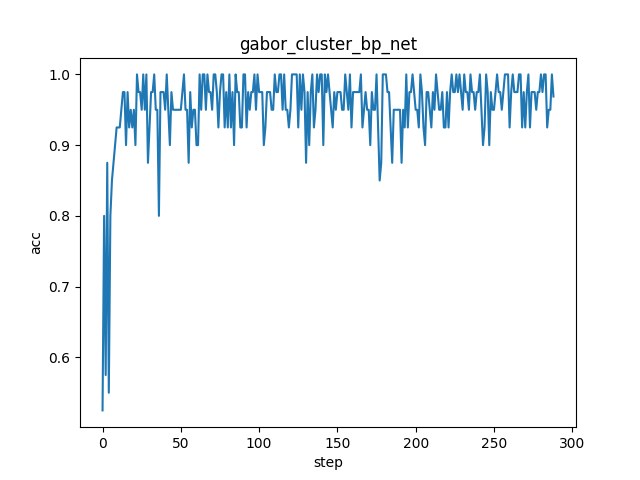
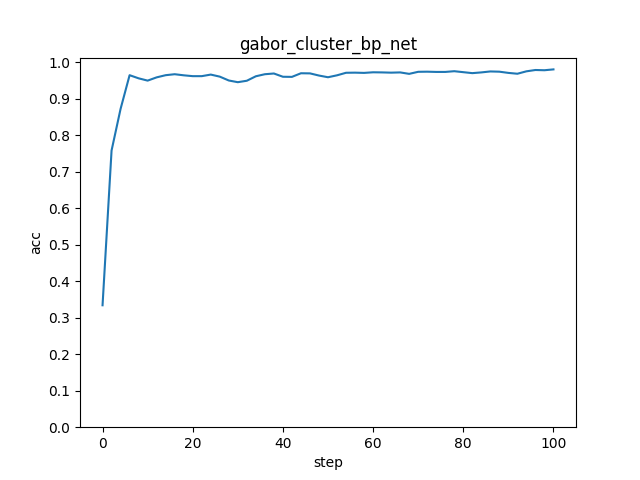
add

diff --git a/experiment/trainer/cnn_cluster_bp_trainer.py b/experiment/trainer/cnn_cluster_bp_trainer.py
@@ -2,7 +2,7 @@ from experiment.compare.gabor_cluster_bp.model import Net
 from util.data_util import loader, convert_label
 from torch.nn import CrossEntropyLoss
 import torch
-from sklearn.metrics import accuracy_score
+from util.test_util import run_testing
 from tqdm import tqdm
 from experiment.trainer.base_trainer import BaseTrainer
 
@@ -15,13 +15,17 @@ class CnnClusterBpTrainer(BaseTrainer):
                  cluster_layer_weight_density,
                  n_neuron_cluster,
                  n_features_cluster_layer,
-                 use_gpu):
+                 use_gpu,
+                 early_stopping_step=None,
+                 valid_interval_step=None):
         super().__init__()
         self.batch_size = batch_size
         self.digits = digits
         self.epoch = epoch
         self.use_gpu = use_gpu
         self.n_category = len(digits)
+        self.early_stopping_step = early_stopping_step
+        self.valid_interval_step = valid_interval_step
         self.net = Net(n_features_cluster_layer=n_features_cluster_layer,
                        n_neuron_cluster=n_neuron_cluster,
                        cluster_layer_weight_density=cluster_layer_weight_density,
@@ -43,6 +47,8 @@ class CnnClusterBpTrainer(BaseTrainer):
     def run_training(self):
         self.loss_all = []
         self.acc_all = []
+        self.step_all = []
+        total_step = 0
         print(self.net)
         for e in tqdm(range(self.epoch)):
             for step, (b_img, b_label) in enumerate(self.train_loader):
@@ -52,13 +58,24 @@ class CnnClusterBpTrainer(BaseTrainer):
                     b_label = b_label.cuda()
                 b_label = convert_label(b_label, self.digits)
                 b_output = self.net(b_img)
-                b_predict = torch.argmax(b_output, dim=1)
                 loss = self.loss_func(b_output, b_label)
                 self.optimizer.zero_grad()
                 loss.backward()
                 self.optimizer.step()
-                acc = accuracy_score(b_label.data.cpu().numpy(), b_predict.data.cpu().numpy())
-                self.loss_all.append(float(loss.data.cpu().numpy()))
-                self.acc_all.append(acc)
+                if total_step % self.valid_interval_step == 0:
+                    loss, acc = run_testing(self.net,
+                                            self.loss_func,
+                                            self.test_loader,
+                                            self.use_gpu,
+                                            self.digits,
+                                            is_rl=False,
+                                            break_step=100)
+                    print('Epoch: ', e, '| train loss: %.4f' % loss, '| test accuracy: %.4f' % acc)
+                    self.loss_all.append(loss)
+                    self.acc_all.append(acc)
+                    self.step_all.append(total_step)
+                if total_step == self.early_stopping_step:
+                    break
+                total_step += 1
         self.plot()
         return self.loss_all, self.acc_all

diff --git a/experiment/trainer/cnn_bp_trainer.py b/experiment/trainer/cnn_bp_trainer.py
@@ -3,7 +3,7 @@ import torch
 from util.data_util import loader, convert_label
 from torch.nn import CrossEntropyLoss
 from tqdm import tqdm
-from sklearn.metrics import accuracy_score
+from util.test_util import run_testing
 from experiment.trainer.base_trainer import BaseTrainer
 
 
@@ -12,7 +12,9 @@ class CnnBpTrainer(BaseTrainer):
                  batch_size,
                  digits,
                  epoch,
-                 use_gpu):
+                 use_gpu,
+                 early_stopping_step=None,
+                 valid_interval_step=None):
         super().__init__()
         self.batch_size = batch_size
         self.digits = digits
@@ -20,6 +22,8 @@ class CnnBpTrainer(BaseTrainer):
         self.use_gpu = use_gpu
         self.n_category = len(digits)
         self.net = Net(n_category=self.n_category)
+        self.early_stopping_step = early_stopping_step
+        self.valid_interval_step = valid_interval_step
         if torch.cuda.is_available() and use_gpu:
             self.net = self.net.cuda()
         self.train_loader, self.test_loader = loader(batch_size=batch_size,
@@ -35,6 +39,8 @@ class CnnBpTrainer(BaseTrainer):
     def run_training(self):
         self.loss_all = []
         self.acc_all = []
+        self.step_all = []
+        total_step = 0
         print(self.net)
         for e in tqdm(range(self.epoch)):
             for step, (b_img, b_label) in enumerate(self.train_loader):
@@ -44,13 +50,24 @@ class CnnBpTrainer(BaseTrainer):
                     b_label = b_label.cuda()
                 b_label = convert_label(b_label, self.digits)
                 b_output = self.net(b_img)
-                b_predict = torch.argmax(b_output, dim=1)
                 loss = self.loss_func(b_output, b_label)
                 self.optimizer.zero_grad()
                 loss.backward()
                 self.optimizer.step()
-                acc = accuracy_score(b_label.data.cpu().numpy(), b_predict.data.cpu().numpy())
-                self.loss_all.append(float(loss.data.cpu().numpy()))
-                self.acc_all.append(acc)
+                if total_step % self.valid_interval_step == 0:
+                    loss, acc = run_testing(self.net,
+                                            self.loss_func,
+                                            self.test_loader,
+                                            self.use_gpu,
+                                            self.digits,
+                                            is_rl=False,
+                                            break_step=100)
+                    print('Epoch: ', e, '| train loss: %.4f' % loss, '| test accuracy: %.4f' % acc)
+                    self.loss_all.append(loss)
+                    self.acc_all.append(acc)
+                    self.step_all.append(total_step)
+                if total_step == self.early_stopping_step:
+                    break
+                total_step += 1
         self.plot()
         return self.loss_all, self.acc_all

diff --git a/experiment/trainer/cnn_cluster_rl_trainer.py b/experiment/trainer/cnn_cluster_rl_trainer.py
@@ -3,7 +3,7 @@ import torch
 from util.data_util import loader, convert_label
 from torch.nn import CrossEntropyLoss
 from tqdm import tqdm
-from sklearn.metrics import accuracy_score
+from util.test_util import run_testing
 from experiment.trainer.base_trainer import BaseTrainer
 
 
@@ -17,7 +17,9 @@ class CnnClusterRlTrainer(BaseTrainer):
                  n_features_cluster_layer,
                  synaptic_th,
                  learning_rate,
-                 use_gpu):
+                 use_gpu,
+                 early_stopping_step,
+                 valid_interval_step):
         super().__init__()
         self.batch_size = batch_size
         self.digits = digits
@@ -25,6 +27,8 @@ class CnnClusterRlTrainer(BaseTrainer):
         self.use_gpu = use_gpu
         self.n_category = len(digits)
         self.learning_rate = learning_rate
+        self.early_stopping_step = early_stopping_step
+        self.valid_interval_step = valid_interval_step
         self.net = Net(n_features_cluster_layer=n_features_cluster_layer,
                        n_neuron_cluster=n_neuron_cluster,
                        cluster_layer_weight_density=cluster_layer_weight_density,
@@ -71,6 +75,8 @@ class CnnClusterRlTrainer(BaseTrainer):
     def run_training(self):
         self.loss_all = []
         self.acc_all = []
+        self.step_all = []
+        total_step = 0
         print(self.net)
         for e in tqdm(range(self.epoch)):
             for step, (b_img, b_label) in enumerate(self.train_loader):
@@ -86,8 +92,20 @@ class CnnClusterRlTrainer(BaseTrainer):
                 loss = self.loss_func(b_output, b_label)
                 # backward
                 self.update_weight(batch_size, b_predict, b_predict_prob, b_label, b_cluster_output)
-                acc = accuracy_score(b_label.data.cpu().numpy(), b_predict.data.cpu().numpy())
-                self.loss_all.append(float(loss.data.cpu().numpy()))
-                self.acc_all.append(acc)
+                if total_step % self.valid_interval_step == 0:
+                    loss, acc = run_testing(self.net,
+                                            self.loss_func,
+                                            self.test_loader,
+                                            self.use_gpu,
+                                            self.digits,
+                                            is_rl=True,
+                                            break_step=100)
+                    print('Epoch: ', e, '| train loss: %.4f' % loss, '| test accuracy: %.4f' % acc)
+                    self.loss_all.append(loss)
+                    self.acc_all.append(acc)
+                    self.step_all.append(total_step)
+                if total_step == self.early_stopping_step:
+                    break
+                total_step += 1
         self.plot()
         return self.loss_all, self.acc_all

diff --git a/experiment/plot/main.py b/experiment/plot/main.py
@@ -4,7 +4,7 @@ from experiment.trainer.cnn_cluster_rl_trainer import CnnClusterRlTrainer
 import numpy as np
 
 batch_size = 40
-digits = np.array([3, 5])
+digits = np.array([2, 3, 4])
 epoch = 1
 cluster_layer_weight_density = 0.01
 n_neuron_cluster = 10
@@ -12,17 +12,23 @@ n_features_cluster_layer = 50000
 learning_rate = 0.1  # 学习率
 synaptic_th = 0.8  # 中间层和输出层之间连接矩阵的突触阈值
 use_gpu = True
+early_stopping_step = 100
+valid_interval_step = 2
 cnn_bp_trainer = CnnBpTrainer(batch_size,
                               digits,
                               epoch,
-                              use_gpu)
+                              use_gpu,
+                              early_stopping_step,
+                              valid_interval_step)
 cnn_cluster_bp_trainer = CnnClusterBpTrainer(batch_size,
                                              digits,
                                              epoch,
                                              cluster_layer_weight_density,
                                              n_neuron_cluster,
                                              n_features_cluster_layer,
-                                             use_gpu)
+                                             use_gpu,
+                                             early_stopping_step,
+                                             valid_interval_step)
 cnn_cluster_rl_trainer = CnnClusterRlTrainer(batch_size,
                                              digits,
                                              epoch,
@@ -31,7 +37,9 @@ cnn_cluster_rl_trainer = CnnClusterRlTrainer(batch_size,
                                              n_features_cluster_layer,
                                              synaptic_th,
                                              learning_rate,
-                                             use_gpu)
-# cnn_bp_trainer.run_training()
-# cnn_cluster_bp_trainer.run_training()
+                                             use_gpu,
+                                             early_stopping_step,
+                                             valid_interval_step)
+cnn_bp_trainer.run_training()
+cnn_cluster_bp_trainer.run_training()
 cnn_cluster_rl_trainer.run_training()

diff --git a/util/test_util.py b/util/test_util.py
@@ -10,7 +10,7 @@ import numpy as np
 from util.data_util import convert_label
 
 
-def run_testing(net, loss_func, test_loader, gpu=True, digits=np.arange(0, 10)):
+def run_testing(net, loss_func, test_loader, gpu=True, digits=np.arange(0, 10), is_rl=False, break_step=None):
     net.eval()
     outputs = []
     labels = []
@@ -20,16 +20,21 @@ def run_testing(net, loss_func, test_loader, gpu=True, digits=np.arange(0, 10)):
             b_img = b_img.cuda()
             b_label = b_label.cuda()
         b_label = convert_label(b_label, digits)
-        b_output = net(b_img)
+        if is_rl:
+            b_output, b_cluster_output = net(b_img)
+        else:
+            b_output = net(b_img)
         b_predict = torch.argmax(b_output, dim=1)
         outputs.append(b_output)
         labels.append(b_label)
         predictions.append(b_predict)
+        if break_step is not None and step == break_step:
+            break
     outputs = torch.cat(outputs, dim=0)
     labels = torch.cat(labels, dim=0)
     predictions = torch.cat(predictions, dim=0)
     loss = loss_func(outputs, labels)
-    loss = loss.data.cpu().numpy()
+    loss = float(loss.data.cpu().numpy())
     accuracy = accuracy_score(labels.data.cpu().numpy(), predictions.data.cpu().numpy())
     return loss, accuracy
 

diff --git a/experiment/trainer/base_trainer.py b/experiment/trainer/base_trainer.py
@@ -8,13 +8,15 @@ class BaseTrainer:
     def __init__(self):
         self.loss_all = []
         self.acc_all = []
+        self.step_all = []
 
     def plot(self):
         if self.net is not None and len(self.acc_all) > 0:
             title_name = self.net.name
-            plt.plot(np.arange(len(self.acc_all)), self.acc_all)
+            plt.plot(self.step_all, self.acc_all)
             plt.xlabel("step")
             plt.ylabel("acc")
+            plt.yticks(np.arange(0, 1.05, 0.1))
             plt.title(title_name)
             plt.savefig(path.join(config.FIG_PATH, title_name + ".png"))
             plt.show()
